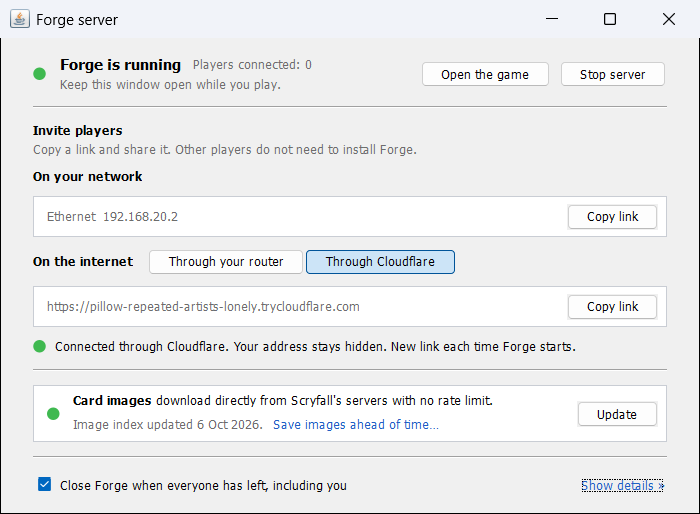
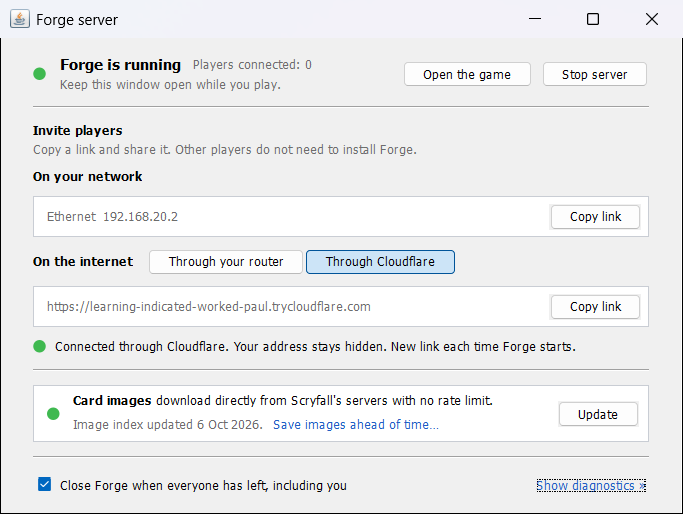
Keep the server window one width, and call its details diagnostics

diff --git a/forge-gui-web/src/main/java/forge/web/ServerConsole.java b/forge-gui-web/src/main/java/forge/web/ServerConsole.java
@@ -33,11 +33,13 @@ import javax.swing.UIManager;
 import javax.swing.UnsupportedLookAndFeelException;
 import javax.swing.WindowConstants;
 import javax.swing.plaf.basic.BasicArrowButton;
+import javax.swing.plaf.basic.BasicHTML;
 import javax.swing.text.BadLocationException;
 import javax.swing.text.Element;
 import javax.swing.text.SimpleAttributeSet;
 import javax.swing.text.StyleConstants;
 import javax.swing.text.StyledDocument;
+import javax.swing.text.View;
 import java.awt.BasicStroke;
 import java.awt.BorderLayout;
 import java.awt.Color;
@@ -167,6 +169,8 @@ final class ServerConsole implements IProgressBar {
     private JPanel picturesAsk;
     private CloudflareTunnel.State tunnelling = CloudflareTunnel.State.OFF;
     private boolean downloadingIndex;
+    private int widest;
+    private JPanel main;
     private volatile boolean quitting;
 
     private ServerConsole(final WebGuiBase ui, final Runnable onQuit) {
@@ -382,8 +386,16 @@ final class ServerConsole implements IProgressBar {
             words = TEXT.getMessage("lblWebConsolePicturesSlow");
             action = TEXT.getMessage("lblWebConsolePicturesSpeedUp");
         }
-        picturesState.setText("<html><div style='width:" + (TEXT_WIDTH - 170) + "px'>" + words + "</div></html>");
         picturesButton.setText(action);
+        // The words take what the button leaves, so the row is as wide as the rest whatever the button says
+        picturesState.setText("<html>" + words + "</html>");
+        // A label wraps HTML only when told how wide it is, and a width given in the HTML itself is not in screen pixels
+        final View laidOut = (View) picturesState.getClientProperty(BasicHTML.propertyKey);
+        final int room = TEXT_WIDTH - 60 - picturesButton.getPreferredSize().width;
+        laidOut.setSize(room, 0);
+        final Dimension size = new Dimension(room, (int) Math.ceil(laidOut.getPreferredSpan(View.Y_AXIS)));
+        picturesState.setPreferredSize(size);
+        picturesState.setMaximumSize(size);
         downloadingIndex = now.downloading();
         picturesUpdated.setText(updated > 0 && !now.downloading()
                 ? TEXT.getMessage("lblWebConsolePicturesUpdated", DateFormat.getDateInstance(DateFormat.MEDIUM).format(new Date(updated))) + "  " : "");
@@ -552,7 +564,7 @@ final class ServerConsole implements IProgressBar {
                 row(button(TEXT.getMessage("lblWebConsoleUseCloudflare"), () -> choose(true)), Box.createHorizontalStrut(8),
                         button(TEXT.getMessage("lblTryAgain"), () -> router.execute(() -> service.forwardPort(true))), Box.createHorizontalStrut(8),
                         button(TEXT.getMessage("lblWebConsoleForwardedMyself"), () -> router.execute(() -> service.forwardPort(false))),
-                        Box.createHorizontalGlue(), link(TEXT.getMessage("lblWebConsoleSetupGuide"), this::openGuide)));
+                        Box.createHorizontalStrut(12), Box.createHorizontalGlue(), link(TEXT.getMessage("lblWebConsoleSetupGuide"), this::openGuide)));
         forwardHelp.setVisible(false);
 
         final ButtonGroup ways = new ButtonGroup();
@@ -601,7 +613,14 @@ final class ServerConsole implements IProgressBar {
         detailsToggle = link("", () -> showDetails(!details.isVisible()));
         labelDetails();
 
-        final JPanel main = new JPanel();
+        main = new JPanel() {
+            @Override
+            public Dimension getPreferredSize() {
+                final Dimension size = super.getPreferredSize();
+                size.width = Math.max(size.width, widest);
+                return size;
+            }
+        };
         main.setLayout(new BoxLayout(main, BoxLayout.PAGE_AXIS));
         main.setBorder(BorderFactory.createEmptyBorder(14, 26, 12, 26));
         final Color quiet = UIManager.getColor("Label.disabledForeground");
@@ -633,7 +652,7 @@ final class ServerConsole implements IProgressBar {
 
         final JPanel numbers = new JPanel();
         numbers.setLayout(new BoxLayout(numbers, BoxLayout.PAGE_AXIS));
-        final JPanel title = row(heading(TEXT.getMessage("lblDetails")), Box.createHorizontalGlue(),
+        final JPanel title = row(heading(TEXT.getMessage("lblWebConsoleDiagnostics")), Box.createHorizontalGlue(),
                 copyButton(TEXT.getMessage("lblWebConsoleCopyLog"), () -> text.getText()));
         title.setAlignmentX(0f);
         numbers.add(title);
@@ -690,6 +709,10 @@ final class ServerConsole implements IProgressBar {
     }
 
     private void fit() {
+        // As wide as its widest part, shown or not, so the window keeps one width as help comes and goes
+        for (final Component part : main.getComponents()) {
+            widest = Math.max(widest, part.getPreferredSize().width + main.getInsets().left + main.getInsets().right);
+        }
         frame.pack();
         frame.setSize(frame.getWidth(), Math.min(frame.getHeight(), GraphicsEnvironment.getLocalGraphicsEnvironment().getMaximumWindowBounds().height));
     }
